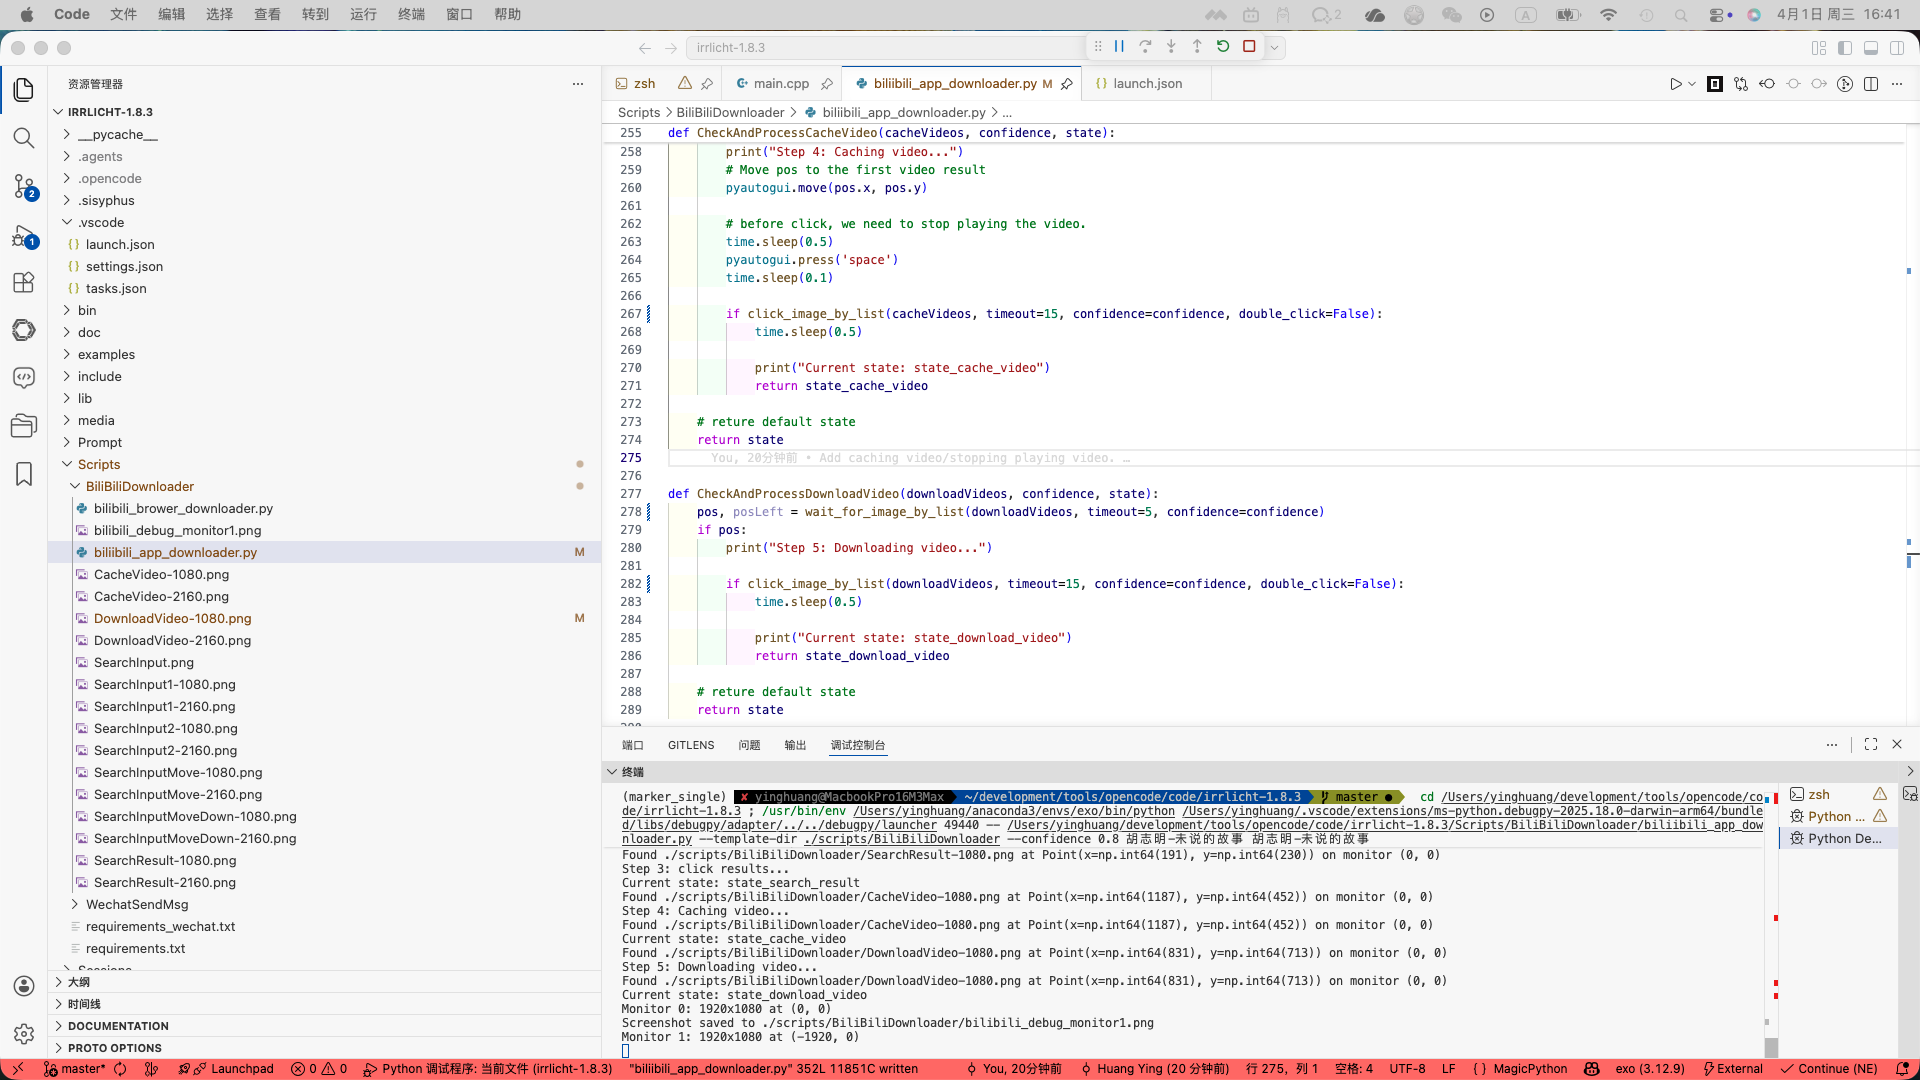
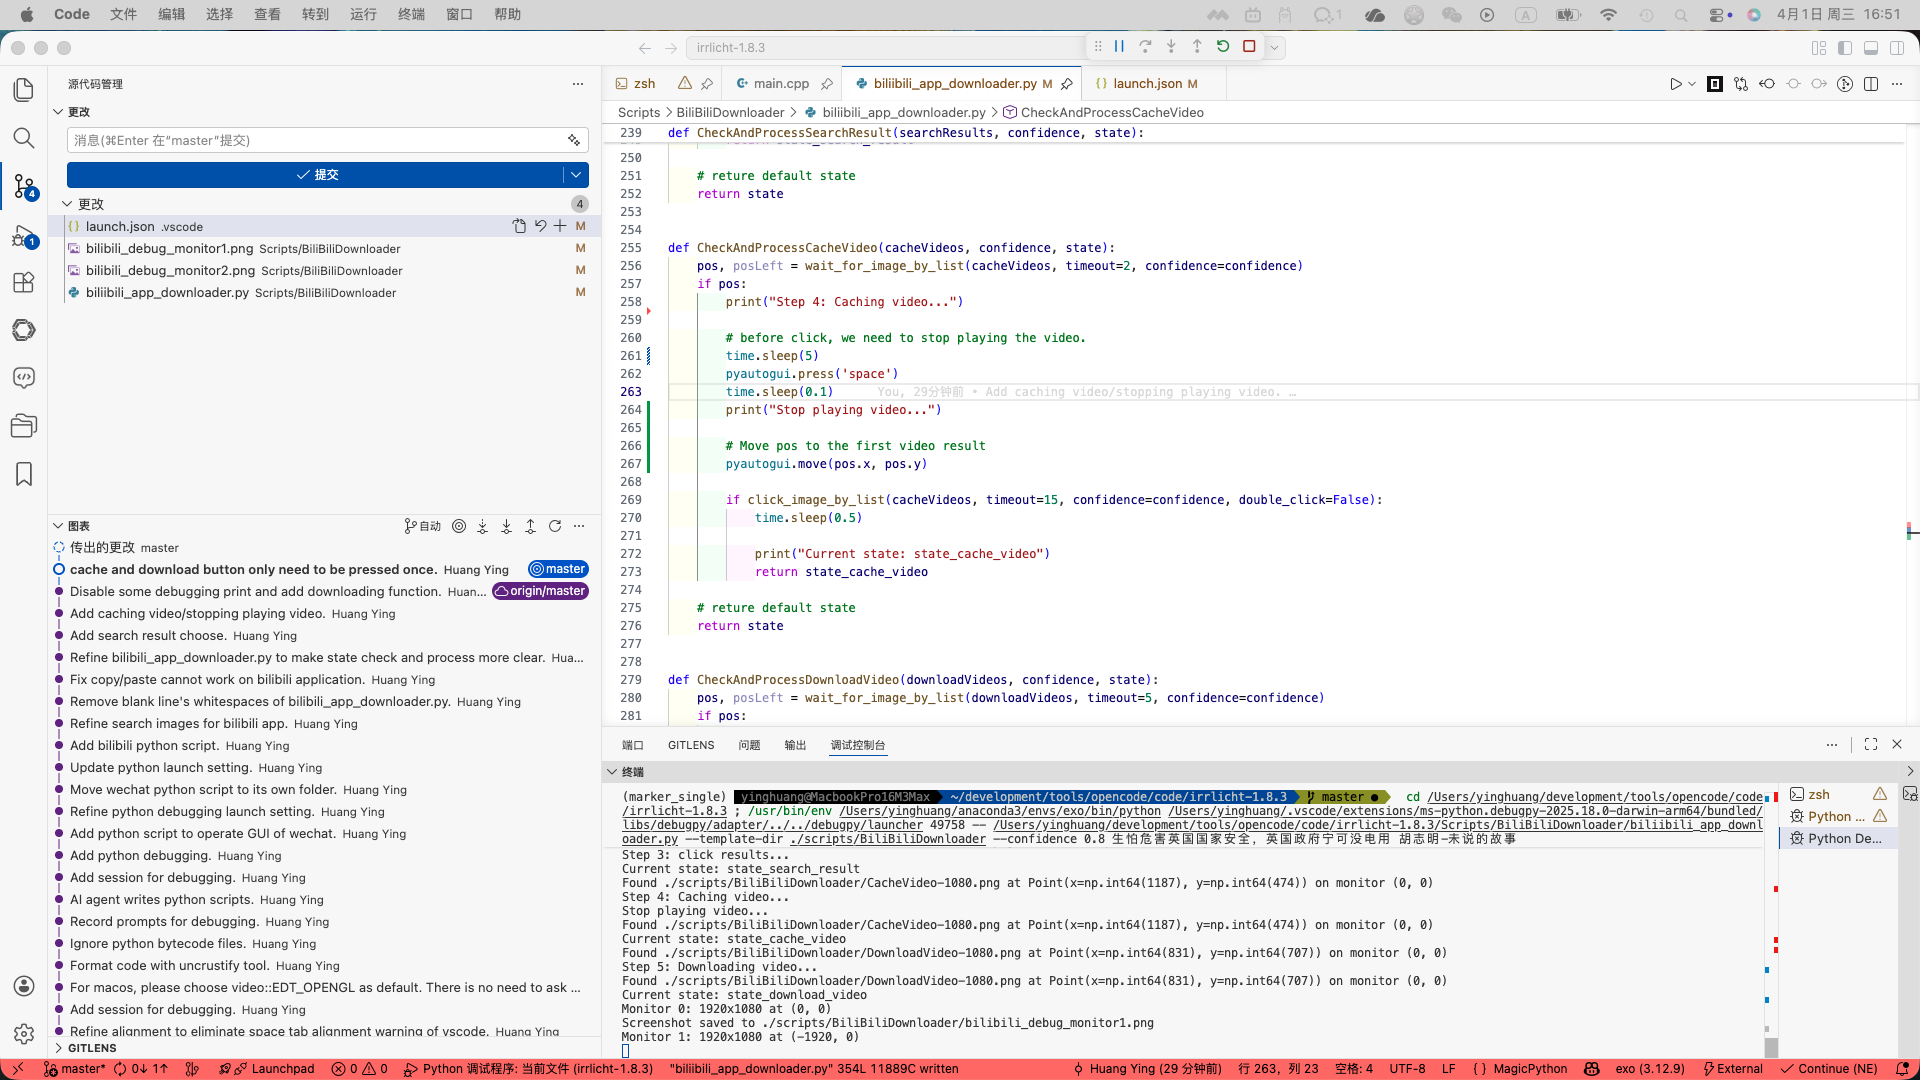
Waiting more time and don't move cursor to make stopping successful. by: ying.huang.

Changed region(s): [[0.0, 0.0611, 0.7188, 1.0], [0.3125, 0.7333, 0.9375, 0.8556], [0.5312, 0.0611, 0.625, 0.1528]]

diff --git a/Scripts/BiliBiliDownloader/biliibili_app_downloader.py b/Scripts/BiliBiliDownloader/biliibili_app_downloader.py
@@ -256,13 +256,15 @@ def CheckAndProcessCacheVideo(cacheVideos, confidence, state):
     pos, posLeft = wait_for_image_by_list(cacheVideos, timeout=2, confidence=confidence)
     if pos:
         print("Step 4: Caching video...")
-        # Move pos to the first video result
-        pyautogui.move(pos.x, pos.y)
 
         # before click, we need to stop playing the video.
-        time.sleep(0.5)
+        time.sleep(5)
         pyautogui.press('space')
         time.sleep(0.1)
+        print("Stop playing video...")
+
+        # Move pos to the first video result
+        pyautogui.move(pos.x, pos.y)
 
         if click_image_by_list(cacheVideos, timeout=15, confidence=confidence, double_click=False):
             time.sleep(0.5)
